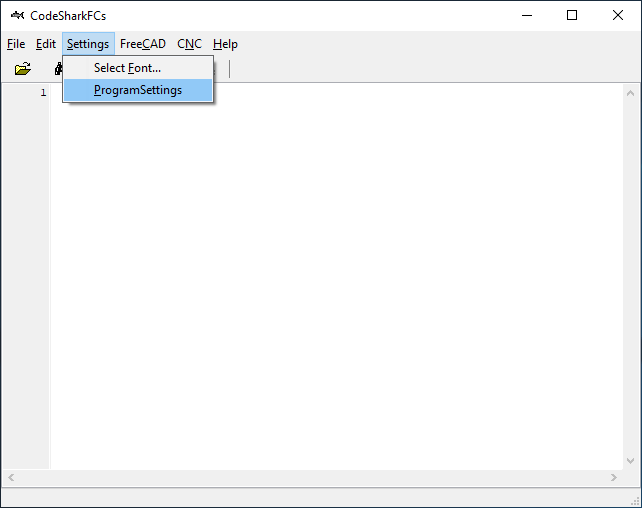
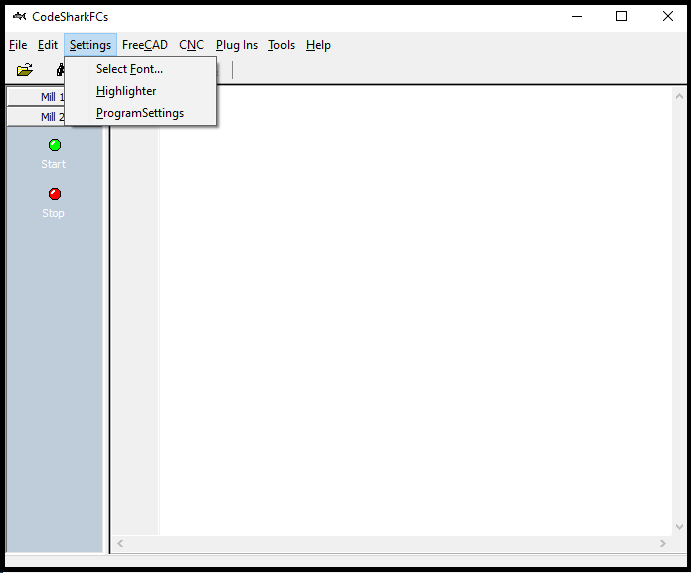
update documentation

Changed region(s): [[0.0, 0.0, 1.0, 1.0]]

diff --git a/Doc/hs655.htm b/Doc/hs655.htm
@@ -1,0 +1,24 @@
+<HTML><HEAD>
+	
+	<TITLE>HighLighter</TITLE>
+	<META NAME="VIEWPORT" CONTENT="width=device-width">
+	<META NAME="AUTHOR" CONTENT="">
+	<META NAME="GENERATOR" CONTENT="HelpScribble 8.3.0">
+	<STYLE> span { display: inline-block; }</STYLE>
+</HEAD>
+<BODY BGCOLOR="#FFFFFF" TEXT="#000000" LINK="#0000FF" VLINK="#800080" ALINK="#FF0000">
+<P><FONT FACE="Arial, helvetica, sans-serif" SIZE="2">
+<A HREF="CodeSharkFC.html">Contents</A>
+ - <A HREF="idx.htm">Index</A>
+</FONT><HR></P>
+<FONT FACE="Arial, helvetica, sans-serif" COLOR="#0000FF" SIZE="5"><B>HighLighter</B></FONT><BR>
+<BR>
+<FONT FACE="Arial, helvetica, sans-serif" COLOR="#800000" SIZE="2"><IMG SRC="HighLighter.PNG" BORDER="0"></FONT><BR>
+<BR>
+<FONT FACE="Arial, helvetica, sans-serif" SIZE="3">G Code Highlighting in the editor window is controlled by this dialog.&nbsp; The text entered into the 'G Code String' text boxes will be highlighted to the color selected in the 'Highlight Color' dropdown list on the editor window.&nbsp; Highlighting is performed as a simple text pattern match, except for the form "G Code Address"# (ie T#).&nbsp; When the G Code address value is postfixed by the '#" symbol, all numberic characters following the G Code address will highlighted.</FONT><BR>
+<BR>
+<FONT FACE="Arial, helvetica, sans-serif" SIZE="3"><A HREF="hs600.htm">Settings</A></FONT><BR>
+<BR>
+<FONT FACE="Arial, helvetica, sans-serif" SIZE="3"><A HREF="hs100.htm">Home</A></FONT><FONT FACE="Arial, helvetica, sans-serif" COLOR="#800000" SIZE="3">
+</FONT>
+</BODY></HTML>

diff --git a/Doc/hs600.htm b/Doc/hs600.htm
@@ -13,11 +13,13 @@
 </FONT><HR></P>
 <FONT FACE="Arial, helvetica, sans-serif" COLOR="#0000FF" SIZE="5"><B>Settings</B></FONT><BR>
 <BR>
-<FONT FACE="Arial, helvetica, sans-serif" SIZE="3">The Setting Menu contains dialogs for Font selection and General Program settings along with access to various communication logs.</FONT><BR>
+<FONT FACE="Arial, helvetica, sans-serif" SIZE="3">The Setting Menu contains dialogs for Font selection, G Code Highlighter Setup,&nbsp; and General Program settings along with access to various communication logs.</FONT><BR>
 <BR>
 <FONT FACE="Arial, helvetica, sans-serif" COLOR="#800000" SIZE="5"><B><IMG SRC="ProgramSettings.png" BORDER="0"></B></FONT><BR>
 <BR>
 <FONT FACE="Arial, helvetica, sans-serif" SIZE="3"><A HREF="hs610.htm">Select Font</A></FONT><FONT FACE="Arial, helvetica, sans-serif" COLOR="#800000" SIZE="3"><STRIKE></STRIKE></FONT><BR>
+<BR>
+<FONT FACE="Arial, helvetica, sans-serif" SIZE="3"><A HREF="hs655.htm">HighLighter</A></FONT><FONT FACE="Arial, helvetica, sans-serif" COLOR="#800000" SIZE="3"><STRIKE></STRIKE></FONT><BR>
 <BR>
 <FONT FACE="Arial, helvetica, sans-serif" SIZE="3"><A HREF="hs620.htm">Program Settings</A></FONT><FONT FACE="Arial, helvetica, sans-serif" COLOR="#800000" SIZE="3"><STRIKE></STRIKE></FONT><BR>
 <BR>
